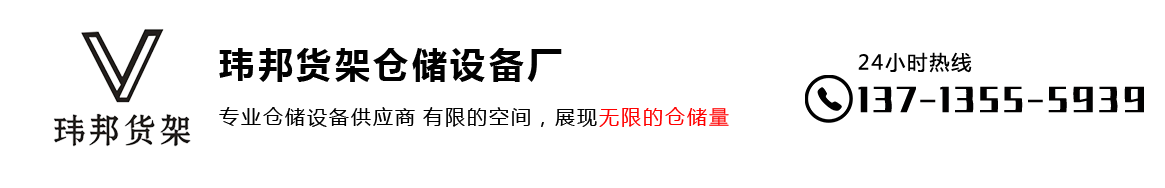
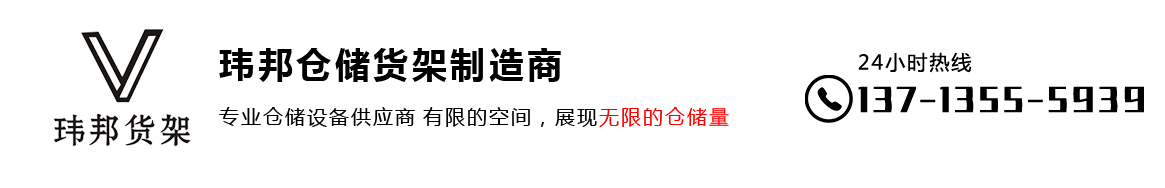
添加在线客服

Changed region(s): [[0.2472, 0.2394, 0.4944, 0.4521]]

diff --git a/src/main/resources/templates/web/layout.html b/src/main/resources/templates/web/layout.html
@@ -27,6 +27,7 @@
     <script type="text/javascript" src="/comm/public.js"></script>
     <script src="/comm/wow.min.js"></script>
     <!--<script src="/lib/scrollup/jquery.scrollUp.js"></script>-->
+    <script> var _hmt = _hmt || []; (function() { var hm = document.createElement("script"); hm.src = "https://hm.baidu.com/hm.js?54d9e3568d465129661cc91b982c616b"; var s = document.getElementsByTagName("script")[0]; s.parentNode.insertBefore(hm, s); })(); </script>
 </head>
 <div layout:fragment="headContent"></div>
 <body>
@@ -34,7 +35,7 @@
 <div class="container-fluid">
     <div class="row top">
         <div class="col-sm-1"></div>
-        <div class="col-sm-7">玮邦货架仓储设备厂欢迎您</div>
+        <div class="col-sm-7">玮邦仓储货架制造商欢迎您</div>
         <div class="col-sm-4 headLink"><a href="/leaveMessage#message">在线留言</a> | <a href="/aboutUs">关于我们</a> | <a
                 href="/question">常见问题解答</a></div>
     </div>
@@ -54,7 +55,7 @@
 
                 </button>
                 <!-- 确保无论是宽屏还是窄屏，navbar-brand都显示 -->
-                <a href="##" style="font-size:16px;" class="navbar-brand visible-xs-block">玮邦货架仓储设备厂</a>
+                <a href="##" style="font-size:16px;" class="navbar-brand visible-xs-block">玮邦仓储货架制造商</a>
             </div>
             <div class="collapse navbar-collapse navbar-responsive-collapse">
                 <ul class="nav navbar-pills nav-justified navbar-right">
@@ -143,8 +144,8 @@
     <div class="suspension-box">
         <a href="#" class="a a-service "><i class="i"></i></a>
         <a href="javascript:;" class="a a-service-phone "><i class="i"></i></a>
-        <!--<a href="javascript:;" class="a a-qrcode"><i class="i"></i></a>-->
-        <!--<a href="#" class="a a-cart"><i class="i"></i></a>-->
+        <a href="javascript:;" class="a a-qrcode"><i class="i"></i></a>
+        <a href="https://shop449282463.taobao.com/" target="_blank" class="a a-cart"><i class="i"></i></a>
         <a href="javascript:;" class="a a-top"><i class="i"></i></a>
         <div class="d d-service">
             <i class="arrow"></i>
@@ -171,13 +172,13 @@
                 <!--</div>-->
             </div>
         </div>
-        <!--<div class="d d-qrcode">-->
-            <!--<i class="arrow"></i>-->
-            <!--<div class="inner-box">-->
-                <!--<div class="qrcode-img"><img src="images/side_ewm.jpg" alt=""></div>-->
-                <!--<p>微信服务号</p>-->
-            <!--</div>-->
-        <!--</div>-->
+        <div class="d d-qrcode">
+            <i class="arrow"></i>
+            <div class="inner-box">
+                <div class="qrcode-img"><img src="/images/weixin.jpg" alt=""></div>
+                <p>微信服务号</p>
+            </div>
+        </div>
 
     </div>
 </div>
